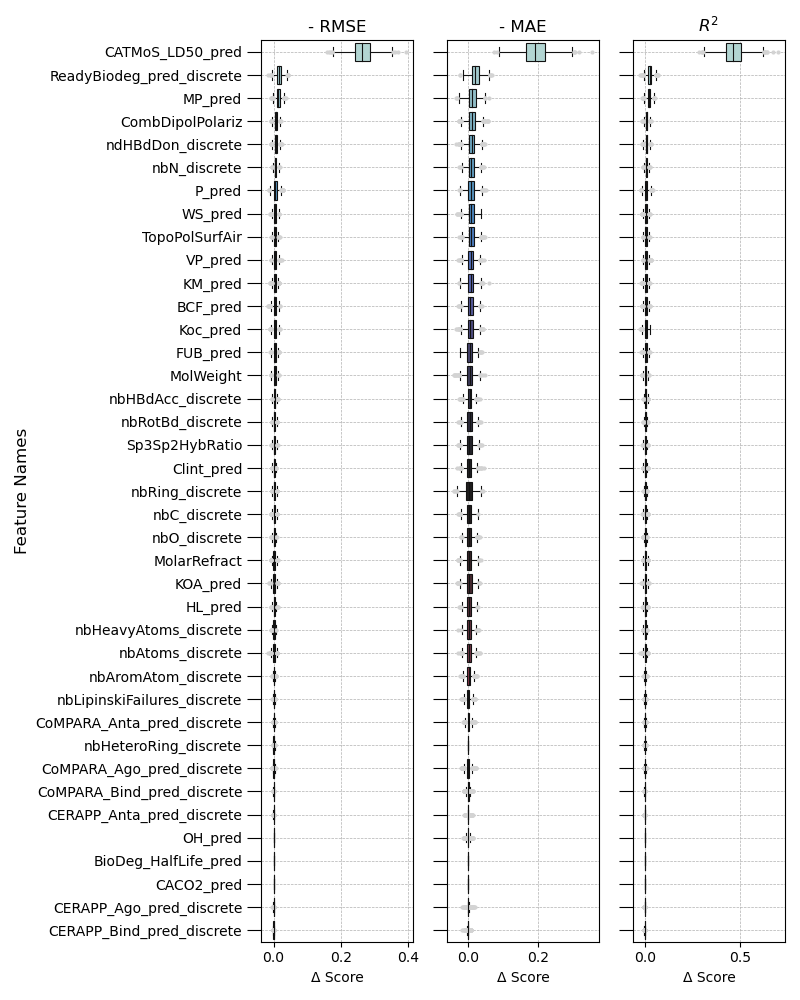
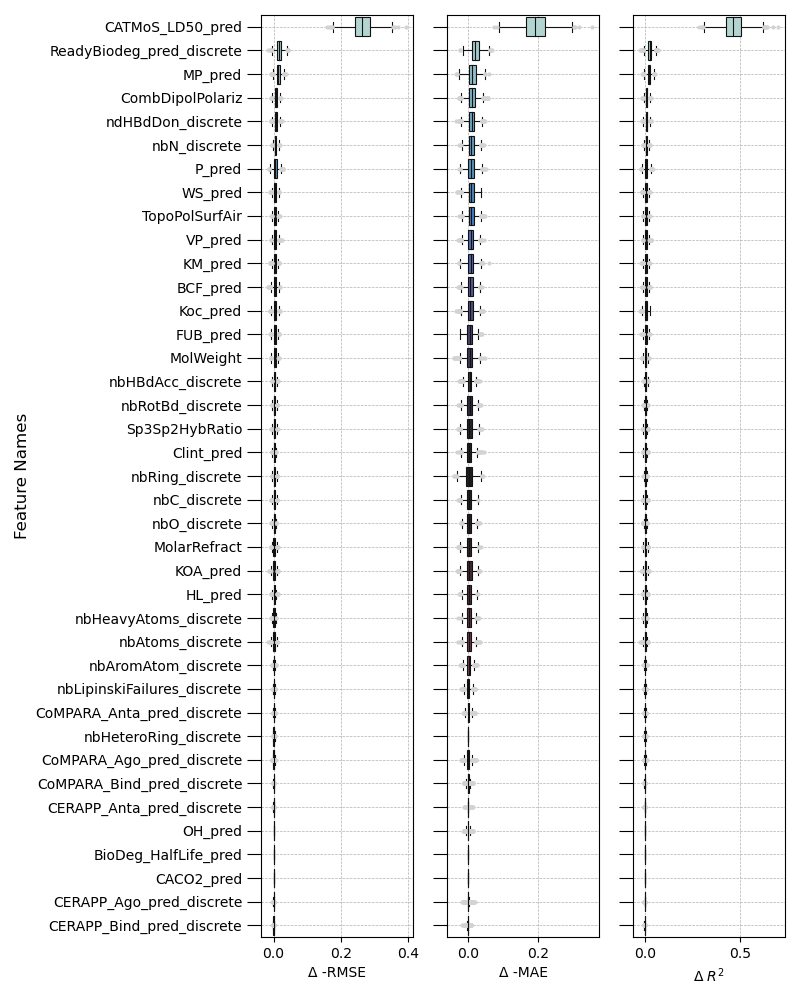
Make vertical boxplot functions more extensible

diff --git a/plot.py b/plot.py
@@ -945,57 +945,81 @@ def important_feature_counts(
             )
 #endregion
 
-# TODO: Collapse into a single function?
 #region: importances_boxplots
-def importances_boxplots(
+def importances_boxplots(results_analyzer, plot_settings):
+    '''
+    '''
+    _feature_importances_subplot(
         results_analyzer, 
-        plot_settings,
-        xlabel='Δ Score',
-        figsize=(8, 10)
-        ):
-    '''
-    '''
-    _feature_importances_boxplots(
-        results_analyzer,
         'importances',
-        importances_boxplots,
-        plot_settings.label_for_scoring,
-        xlabel=xlabel,
-        ylabel=plot_settings.feature_names_label,
-        figsize=figsize
-        )
+        plot_settings,
+        importances_boxplots
+    )
 #endregion
 
-# TODO: Ditto
 #region: importances_replicates_boxplots
-def importances_replicates_boxplots(
-        results_analyzer, 
-        plot_settings,
-        xlabel='Δ Score',
-        figsize=(8, 10)
-        ):
+def importances_replicates_boxplots(results_analyzer, plot_settings):
     '''
     '''
-    _feature_importances_boxplots(
+    _feature_importances_subplot(
         results_analyzer, 
         'importances_replicates',
-        importances_replicates_boxplots,
-        plot_settings.label_for_scoring,
-        xlabel=xlabel,
-        ylabel=plot_settings.feature_names_label,
-        figsize=figsize
-        )
+        plot_settings,
+        importances_replicates_boxplots
+    )
 #endregion
 
-#region: _feature_importances_boxplots
-def _feature_importances_boxplots(
-        results_analyzer,
+#region: _feature_importances_subplot
+def _feature_importances_subplot(
+        results_analyzer, 
         result_type,
-        function, 
-        label_for_scoring,
-        xlabel,
-        ylabel='', 
-        figsize=None,
+        plot_settings,
+        function,
+        figsize=(8, 10)
+        ):
+    '''
+    '''
+    model_keys = results_analyzer.read_model_keys(exclusion_string='false')
+
+    for model_key in model_keys:
+
+        df_wide = results_analyzer.read_result(model_key, result_type)
+
+        fig, axs = plt.subplots(
+            ncols=len(plot_settings.label_for_scoring),
+            sharey=True,
+            figsize=figsize
+        )
+
+        vertical_boxplots_subplot(
+            axs,
+            df_wide,
+            'feature',
+            plot_settings.label_for_scoring, 
+            'metric',   # FIXME: Change to 'scoring'
+            ylabel=plot_settings.feature_names_label
+        )
+
+        fig.tight_layout()
+
+        save_figure(
+            fig, 
+            function, 
+            model_key
+            )
+#endregion
+
+#region: vertical_boxplots_subplot
+def vertical_boxplots_subplot(
+        axs,
+        df_wide,
+        sorting_level,
+        evaluation_label_mapper,
+        evaluation_level,
+        xlim=(),
+        ylabel=None, 
+        start=0,
+        palette='icefire',
         ):
     '''
     Plot boxplots for feature importances for all models in workflow.
@@ -1009,70 +1033,37 @@ def _feature_importances_boxplots(
     Returns
     -------
     None : None
-    '''
-    model_keys = results_analyzer.read_model_keys(exclusion_string='false')
-    for model_key in model_keys:
-        
-        fig, axs = plt.subplots(
-            ncols=len(label_for_scoring),
-            sharey=True,
-            figsize=figsize
+    '''    
+    for i, (k, xlabel) in enumerate(
+        evaluation_label_mapper.items(), start=start):
+
+        # Compute median and sort by it
+        df_long = df_wide.xs(k, axis=1, level=evaluation_level).melt()
+    
+        sorted_vertical_boxplot(
+            axs[i], 
+            df_long,
+            sorting_level,
+            xlabel=xlabel, 
+            palette=palette 
         )
 
-        df_wide = results_analyzer.read_result(model_key, result_type)
+        if xlim:
+            axs[i].set_xlim(xlim)
 
-        for i, (scoring, title) in enumerate(label_for_scoring.items()):
-
-          # Compute median and sort by it
-            df_long = df_wide[scoring].melt()
-            medians = (
-                df_long.groupby('feature')['value']
-                .median()
-                .sort_values(ascending=False)
-            )
-            sorted_features = medians.index.tolist()
-
-            # Sort DataFrame by median
-            df_long['feature'] = pd.Categorical(
-                df_long['feature'], 
-                categories=sorted_features, ordered=True
-                )
-            df_long.sort_values(by='feature', inplace=True)
-        
-            y, x = list(df_long.columns)
-        
-            sns_boxplot_wrapper(
-                axs[i], 
-                df_long,
-                x, 
-                y,
-                xlabel=xlabel, 
-                title=title,
-                palette='icefire' 
-            )
-
-        if ylabel:
-            # Set ylabel, first column only.
-            for i, ax in enumerate(axs.flatten()):
-                ax.tick_params(axis='y', size=10)
-                if i == 0:
-                    ax.set_ylabel(ylabel, size=12)
-        
-        fig.tight_layout()
-
-        save_figure(
-            fig, 
-            function, 
-            model_key
-            )
+    if ylabel:
+        # Set ylabel, first column only.
+        for i, ax in enumerate(axs.flatten()):
+            ax.tick_params(axis='y', size=10)
+            if i == 0:
+                ax.set_ylabel(ylabel, size=12)    
 #endregion
 
-#region: sns_boxplot_wrapper
-def sns_boxplot_wrapper(
+#region: sorted_vertical_boxplot
+def sorted_vertical_boxplot(
         ax, 
         df_long, 
-        x, 
-        y, 
+        sorting_level,
         xlabel='',
         ylabel='', 
         title='',
@@ -1080,6 +1071,22 @@ def sns_boxplot_wrapper(
         ):
     '''Wrapper around seaborn.boxplot() with customization.
     '''
+    medians = (
+        df_long.groupby(sorting_level)['value']
+        .median()
+        .sort_values(ascending=False)
+    )
+    sorted_keys = medians.index.tolist()
+
+    # Sort DataFrame by median
+    df_long[sorting_level] = pd.Categorical(
+        df_long[sorting_level], 
+        categories=sorted_keys, ordered=True
+        )
+    df_long.sort_values(by=sorting_level, inplace=True)
+
+    y, x = list(df_long.columns)
+    
     sns.boxplot(    
         x=x, 
         y=y, 
